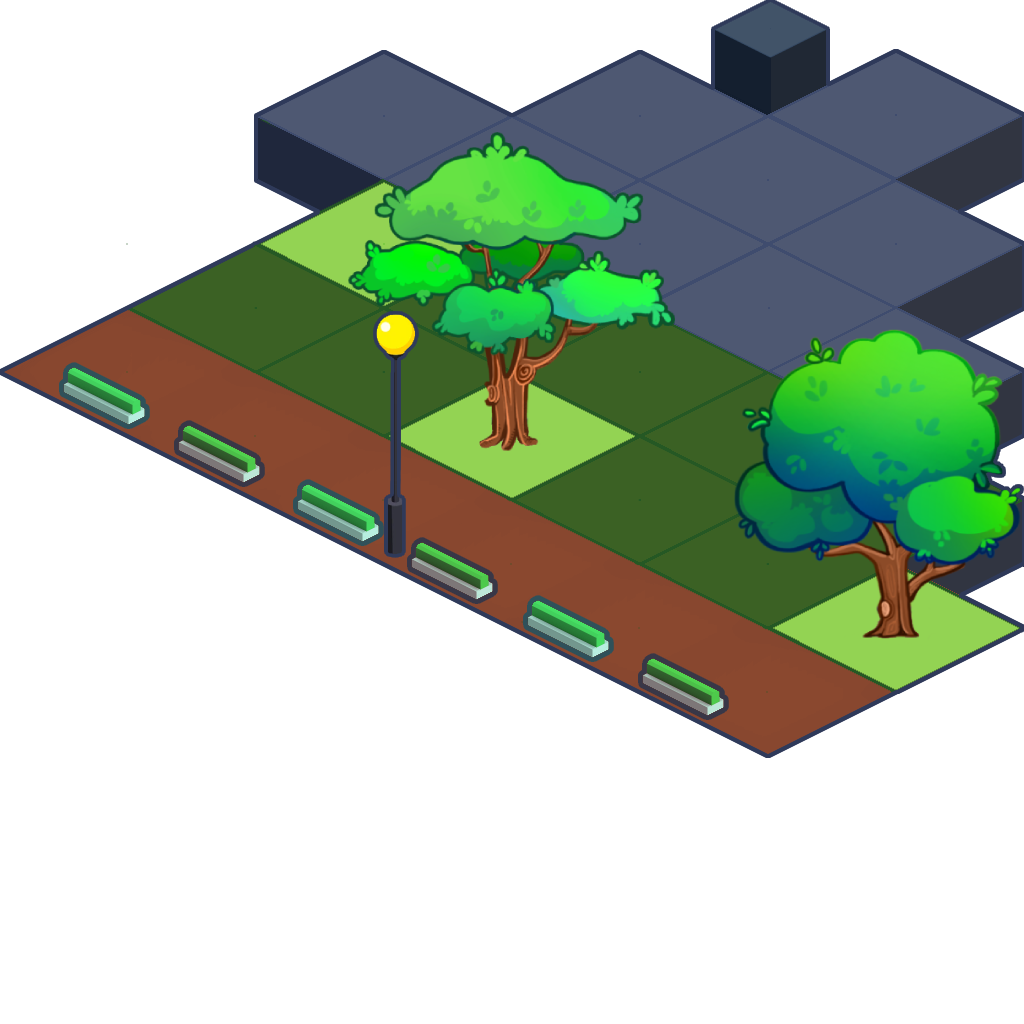
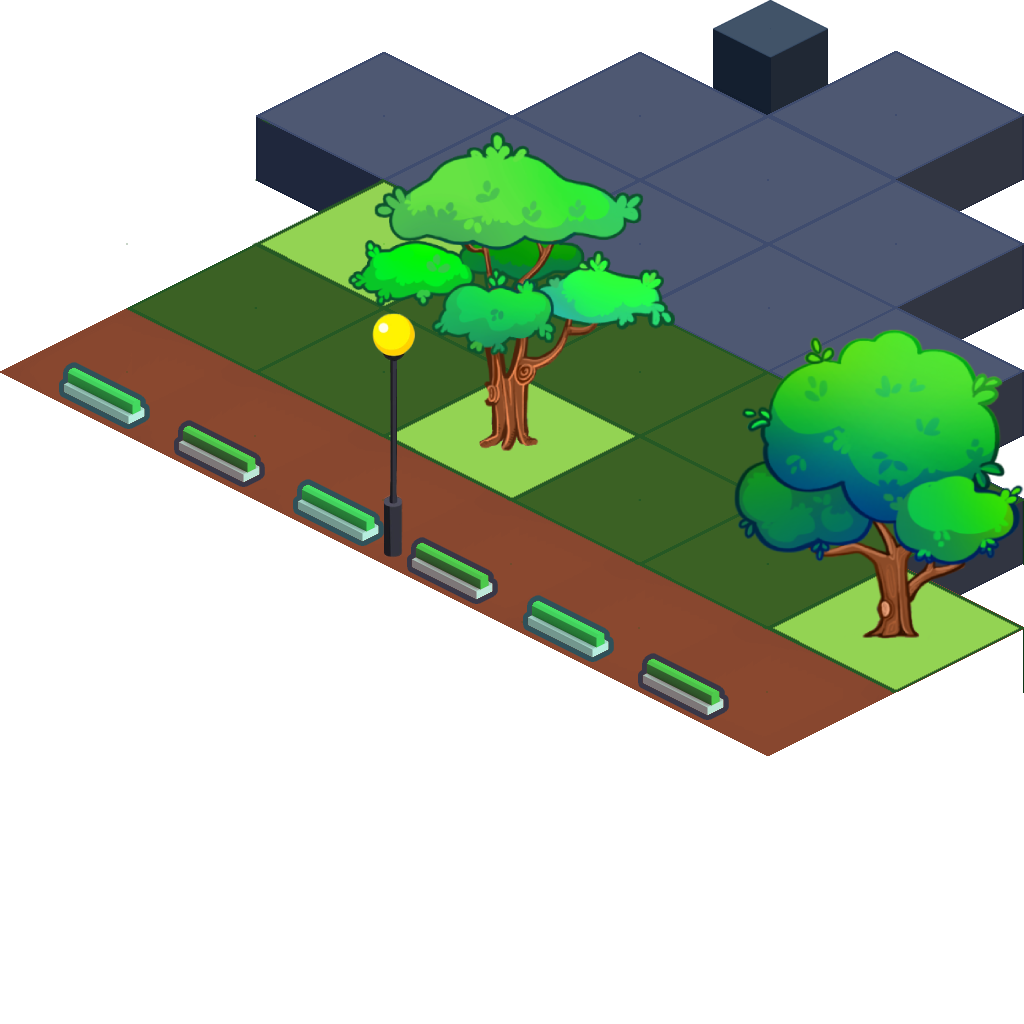
road marks positioning fixed

diff --git a/src/scenes/GamePlayScene.ts b/src/scenes/GamePlayScene.ts
@@ -450,7 +450,7 @@ export class GamePlayScene extends Container implements IScene {
 
 			if (gameObject) {
 
-				gameObject.setPosition((gameObject.width * -1) - 725, gameObject.height * -1);
+				gameObject.setPosition((gameObject.width * -1) - 730, gameObject.height * -1);
 				gameObject.enableRendering();
 
 				this.roadMarkPopDelay = this.roadMarkPopDelayDefault;
